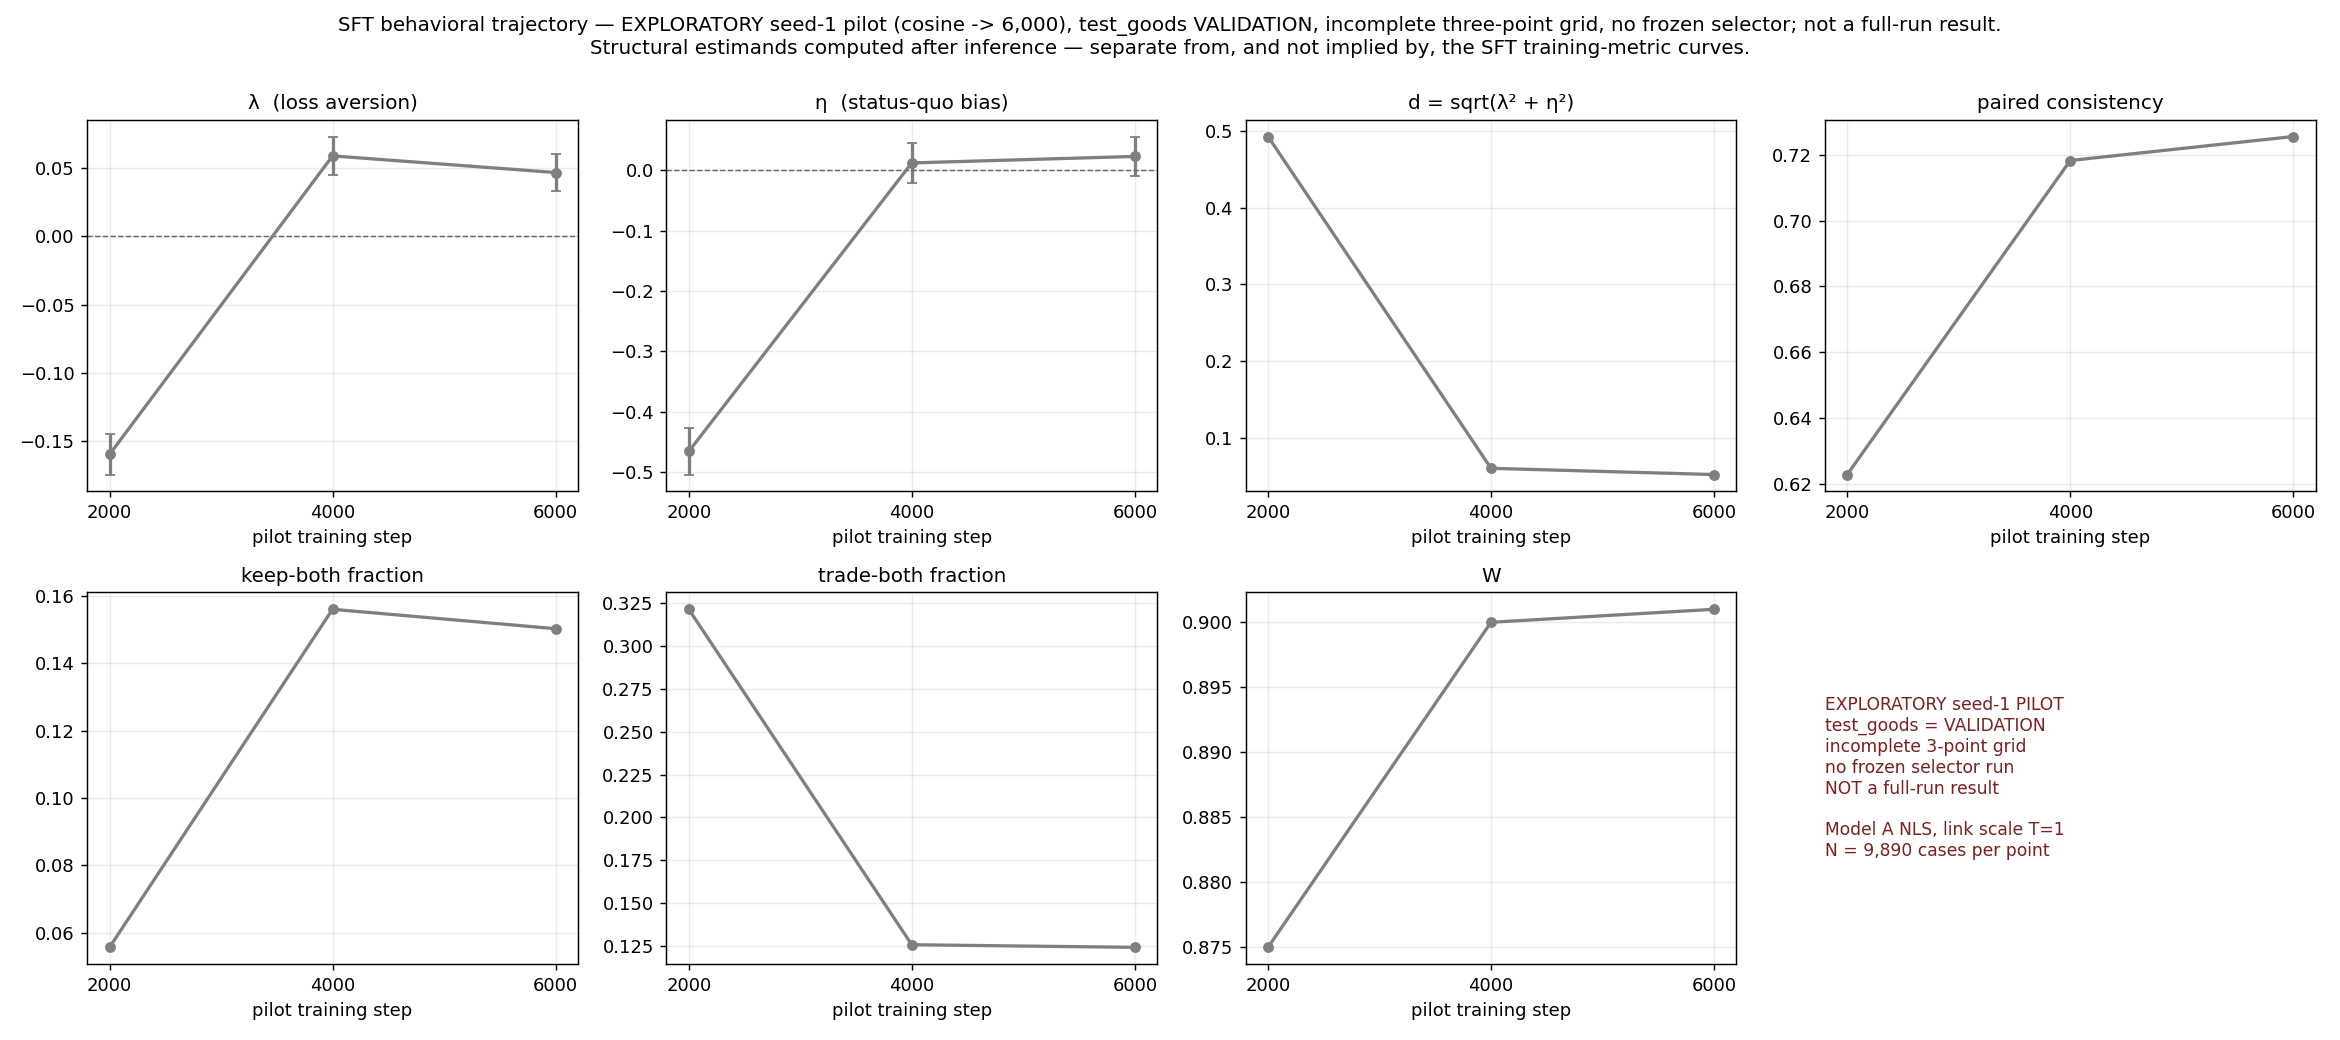
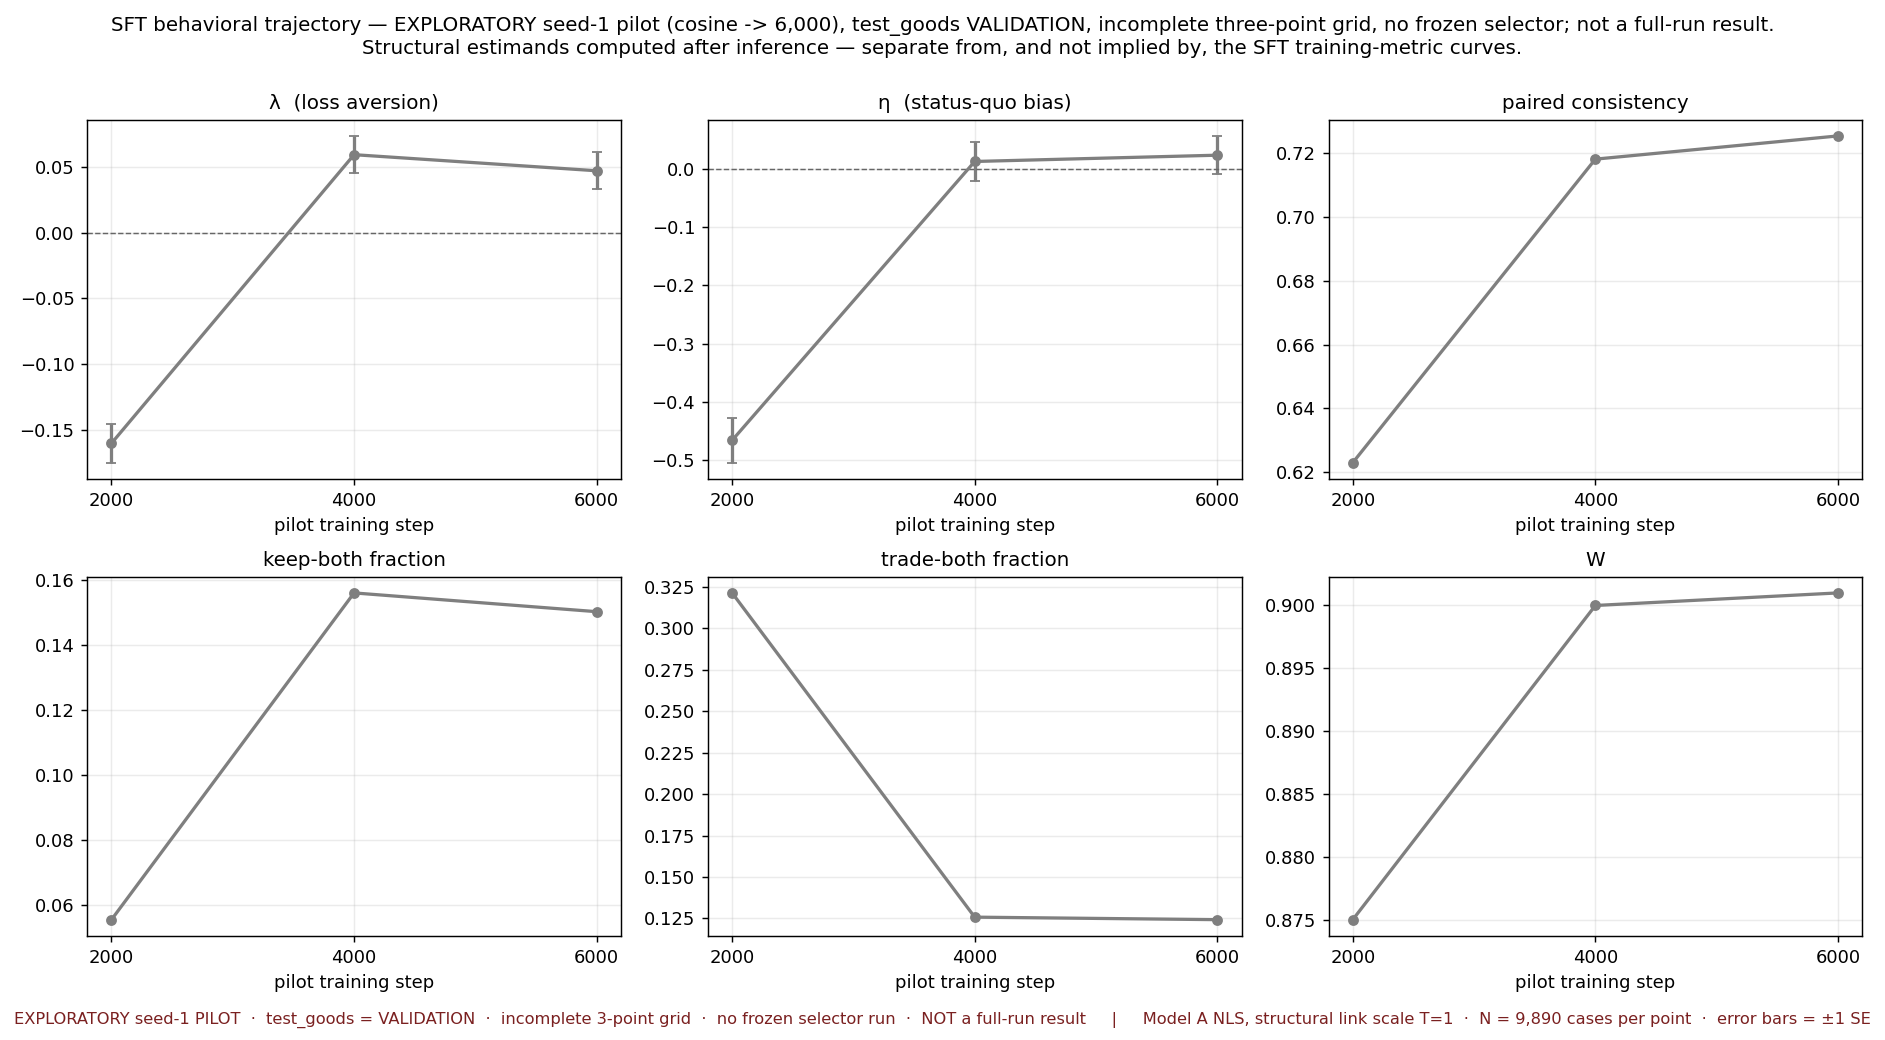
Quarantine pilot evals; 6-panel behavioral figure; full-grid run guide
Pilot-eval quarantine (prerequisite for the full grid)
------------------------------------------------------
The seed-1 pilot's evaluation outputs occupied exactly the flat directory names
a full 30k run produces:

  baselines/Qwen-7B-SFT-qd-seed1-ckpt{2000,4000,6000}
  baselines/Qwen-7B-GRPO-sign-seed1-ckpt{2000,4000,6000}

eval/run_qwen_local.py resumes by case_id from any existing loss_aversion_X/Y
.json in the output directory, so a full-run evaluation writing to those names
would have printed "Already complete: 9890 / Nothing to do" and returned the
PILOT's numbers under a full-run label — silently, with no error. The pilot also
trained into checkpoints/sft_qwen_delta_seed1 before that path was renamed and
reused by the full run, so the 07-27 eval logs already record an adapter path
that now points at different weights.

Moved all six into baselines/pilot6k/ with a PROVENANCE.md. Directory and file
names inside are unchanged — they record the --model_name used at evaluation
time. eval/select_checkpoint.py globs <feature>/<pattern> non-recursively, so
nothing there can be swept into a selection. The sign-only pilot was moved for
the same reason even though no full sign run exists yet: its training path
(checkpoints/grpo_qwen_delta_sign_seed1) would be reused identically.

scan_full_behavioural_grid() now excludes the pilot STRUCTURALLY (it cannot
reach a nested directory) instead of via a hardcoded step list, and records
where the quarantine lives.
[…]

diff --git a/eval/plot_sft_training_dynamics.py b/eval/plot_sft_training_dynamics.py
@@ -785,11 +785,10 @@ def scan_full_behavioural_grid() -> dict:
     look at the machine) and is recorded in the manifest; render and --check
     then consume the recorded scan, which keeps them snapshot-reproducible.
 
-    Directory NAMES are not identity. The seed-1 2k/4k/6k evaluation directories
-    were produced on 2026-07-27 from the PILOT adapters, back when the pilot
-    still occupied checkpoints/sft_qwen_delta_seed1 (renamed to *_pilot6k before
-    the full run reused that path on 2026-07-29). They are therefore listed but
-    excluded from the full-run grid count.
+    Only the FLAT `<root>/<prefix><step>/Model_1` layout counts. The seed-1
+    pilot's own 2k/4k/6k evaluations used exactly these names and now live one
+    level down in `baselines/pilot6k/` (see that directory's PROVENANCE.md), so
+    they are structurally excluded rather than excluded by a hardcoded step list.
     """
     grid_steps = list(range(SELECTION_GRID_STRIDE, 30001, SELECTION_GRID_STRIDE))
     found: dict[int, list[int]] = {}
@@ -803,21 +802,24 @@ def scan_full_behavioural_grid() -> dict:
                 if (base / f"{prefix}{step}" / "Model_1").is_dir():
                     hits.append(step)
         found[seed] = sorted(set(hits))
-    known_pilot = {1: [2000, 4000, 6000]}
-    attributable = {s: [k for k in v if k not in known_pilot.get(s, [])]
-                    for s, v in found.items()}
     n_needed = len(grid_steps) * len(FULL_GRID_PREFIX)
-    n_attr = sum(len(v) for v in attributable.values())
+    n_found = sum(len(v) for v in found.values())
+    pilot_dir = PROJECT_ROOT / "baselines" / "pilot6k"
     return {
         "scanned_roots": FULL_GRID_ROOTS,
+        "scan_is_recursive": False,
         "dir_prefixes": {str(k): v for k, v in FULL_GRID_PREFIX.items()},
         "required": {"seeds": list(FULL_GRID_PREFIX), "checkpoints": grid_steps,
                      "n_evaluations_required": n_needed},
         "directories_found": {str(k): v for k, v in found.items()},
-        "excluded_as_pilot_evaluations": {str(k): v for k, v in known_pilot.items()},
-        "attributable_to_full_runs": {str(k): v for k, v in attributable.items()},
-        "n_attributable_to_full_runs": n_attr,
-        "complete": n_attr == n_needed,
+        "n_attributable_to_full_runs": n_found,
+        "pilot_evaluations_quarantined_at": (
+            str(pilot_dir.relative_to(PROJECT_ROOT)) if pilot_dir.is_dir() else None),
+        "pilot_exclusion_mechanism": (
+            "structural: the seed-1 pilot evaluations were moved into "
+            "baselines/pilot6k/ on 2026-08-06 so they cannot occupy the flat "
+            "full-run names, and this non-recursive scan cannot reach them."),
+        "complete": n_found == n_needed,
         "identity_verified": False,
     }
 
@@ -896,13 +898,18 @@ def build_behavioural(grid_scan: dict | None) -> tuple[pd.DataFrame | None, dict
                                "sha256": sha256_of(PILOT_TABLE)},
         },
         "checkpoint_identity": "checkpoints/sft_qwen_delta_seed1_pilot6k/checkpoint-{2000,4000,6000}",
+        "evaluation_outputs": "baselines/pilot6k/Qwen-7B-SFT-qd-seed1-ckpt{2000,4000,6000}",
         "provenance_note": (
             "The July-27 evaluation logs record the adapter path as "
             "checkpoints/sft_qwen_delta_seed1/checkpoint-N. The pilot trained "
             "into that path on July 26 and was renamed to *_pilot6k before the "
             "full run reused the name on July 29, so those logs refer to the "
             "PILOT adapters. Directory mtimes and the pilot's own manifest "
-            "(max_steps=6000) confirm the identity."),
+            "(max_steps=6000) confirm the identity. On 2026-08-06 the pilot's "
+            "evaluation outputs were moved from the flat baselines/ names into "
+            "baselines/pilot6k/ so a full-run evaluation cannot resume from them "
+            "and silently return pilot numbers; see that directory's "
+            "PROVENANCE.md."),
         "adapter_hash_available": False,
         "seeds_covered": [1],
         "checkpoints_covered": sorted(int(x) for x in df["step"]),
@@ -917,14 +924,16 @@ def build_behavioural(grid_scan: dict | None) -> tuple[pd.DataFrame | None, dict
 
 
 def plot_behavioural(df: pd.DataFrame, path: Path) -> None:
+    # d = sqrt(lambda^2 + eta^2) is retained in the CSV but no longer plotted:
+    # it is a deterministic function of the first two panels, so the panel added
+    # no information the reader could not already see.
     panels = [("lambda", "λ  (loss aversion)", True),
               ("eta", "η  (status-quo bias)", True),
-              ("d", "d = sqrt(λ² + η²)", False),
               ("consistency", "paired consistency", False),
               ("keep_both", "keep-both fraction", False),
               ("trade_both", "trade-both fraction", False),
               ("W", "W", False)]
-    fig, axes = plt.subplots(2, 4, figsize=(18, 8))
+    fig, axes = plt.subplots(2, 3, figsize=(14.5, 8))
     c = RUNS["sft_pilot6k_seed1"]["color"]
     for ax, (col, title, zero) in zip(axes.ravel(), panels):
         if col in ("lambda", "eta"):
@@ -939,17 +948,12 @@ def plot_behavioural(df: pd.DataFrame, path: Path) -> None:
         ax.set_xlabel("pilot training step")
         ax.set_xticks(sorted(df["step"]))
         ax.grid(alpha=0.25)
-    axes.ravel()[-1].axis("off")
-    axes.ravel()[-1].text(
-        0.0, 0.5,
-        "EXPLORATORY seed-1 PILOT\n"
-        "test_goods = VALIDATION\n"
-        "incomplete 3-point grid\n"
-        "no frozen selector run\n"
-        "NOT a full-run result\n\n"
-        "Model A NLS, link scale T=1\n"
-        "N = 9,890 cases per point",
-        fontsize=9.5, va="center", ha="left", color="#7a2020")
+    fig.text(0.5, 0.012,
+             "EXPLORATORY seed-1 PILOT  ·  test_goods = VALIDATION  ·  incomplete "
+             "3-point grid  ·  no frozen selector run  ·  NOT a full-run result"
+             "     |     Model A NLS, structural link scale T=1  ·  N = 9,890 "
+             "cases per point  ·  error bars = ±1 SE",
+             fontsize=9, ha="center", va="bottom", color="#7a2020")
     fig.suptitle(
         "SFT behavioral trajectory — EXPLORATORY seed-1 pilot (cosine -> 6,000), "
         "test_goods VALIDATION, incomplete three-point grid, no frozen selector; "
@@ -958,7 +962,7 @@ def plot_behavioural(df: pd.DataFrame, path: Path) -> None:
         "implied by, the SFT training-metric curves.", fontsize=11, y=0.985,
         va="top")
     fig.tight_layout()
-    fig.subplots_adjust(top=0.885)
+    fig.subplots_adjust(top=0.885, bottom=0.10)
     fig.savefig(path, dpi=130)
     plt.close(fig)
 

diff --git a/train/SFT_FULL_GRID_EVAL.md b/train/SFT_FULL_GRID_EVAL.md
@@ -1,0 +1,110 @@
+# Evaluating the full SFT checkpoint grid (behavioral trajectory)
+
+How to produce the λ/η trajectory for the two **completed full matched-SFT runs**
+(seed 1 and seed 2, cosine → 30,000). Training is done; this is the behavioral
+measurement that training completion does *not* provide.
+
+Nothing here is submitted automatically. Copy the block you want and `qsub` it.
+
+## What each job does
+
+`train/submit_eval_baseline_ckpt.pbs` (unchanged, already frozen) loads one LoRA
+checkpoint, scores all 9,890 `test_goods` cases from both perspectives with
+deterministic greedy decoding, then fits Model A NLS at structural link scale
+T=1. Output lands in `baselines/Qwen-7B-SFT-qd-seed{N}-ckpt{S}/`.
+
+Measured cost per checkpoint, from the pilot logs: 1,237 batches at ~1.15 it/s
+≈ **18 min inference + a few minutes NLS ≈ 20–25 min**. Walltime is 2 h, so each
+job has ample headroom.
+
+## Full grid — 2,000 stride (the frozen grid; 30 jobs, ~11–13 GPU-hours)
+
+```bash
+cd $HOME/scratch/lambda-zero
+for SEED in 1 2; do
+  for CKPT in 2000 4000 6000 8000 10000 12000 14000 16000 18000 \
+              20000 22000 24000 26000 28000 30000; do
+    qsub -v METHOD=sft,SEED=$SEED,CKPT=$CKPT train/submit_eval_baseline_ckpt.pbs
+  done
+done
+```
+
+## Reduced grid — 4,000 stride (16 jobs, ~6 GPU-hours)
+
+Use this if the SU budget is tight; it gives the shape of the trajectory and can
+be infilled later with the remaining steps.
+
+```bash
+cd $HOME/scratch/lambda-zero
+for SEED in 1 2; do
+  for CKPT in 2000 6000 10000 14000 18000 22000 26000 30000; do
+    qsub -v METHOD=sft,SEED=$SEED,CKPT=$CKPT train/submit_eval_baseline_ckpt.pbs
+  done
+done
+```
+
+Note that a partial grid is **not** eligible for the frozen selector, which
+requires the complete 2k–30k @ 2k grid. It is fine for the trajectory plot.
+
+## Budget
+
+The two full SFT *training* runs consumed 2.8 GPU-hours and were charged ≈317 SU,
+which naively scales to roughly **1,000–1,400 SU for the 30-job grid** against a
+reported balance of ≈3,312 SU. Confirm the actual charging rate before committing
+to the full grid — this is a material fraction of the remaining allocation and
+the estimate is an extrapolation, not a measurement.
+
+## Monitoring
+
+```bash
+qstat -u jackeyc0
+ls -d baselines/Qwen-7B-SFT-qd-seed*-ckpt*/Model_1 | wc -l   # 30 when complete
+tail -f logs/eval_baseline_*.out
+```
+
+## After the jobs land
+
+```bash
+python eval/plot_sft_training_dynamics.py --refresh   # rescans the grid
+python eval/plot_sft_training_dynamics.py --check
+```
+
+`--refresh` rescans `baselines/` and records what it found in the manifest. The
+behavioral figure then gains the two full-run trajectories alongside the pilot.
+
+## Guard rails already in place
+
+- **`test_goods` is VALIDATION**, never a final test. The PBS script hard-refuses
+  OOD-50 and the frozen-unused suite, and the frozen method-comparison and
+  semantic suites are untouched.
+- **Output root is `baselines/`, not `baseline/`.** The confirmatory selector
+  globs `baseline/*`, so these evaluations cannot be swept into the frozen
+  seed1→2,000 / seed2→6,000 GRPO selection.
+- **The pilot's evaluations are quarantined** in `baselines/pilot6k/` (moved
+  2026-08-06; see its `PROVENANCE.md`). They previously occupied the exact flat
+  names these jobs write to, and `eval/run_qwen_local.py` resumes from any
+  existing `loss_aversion_X/Y.json` in the output directory — so three of the
+  thirty jobs would have printed `Already complete: 9890 / Nothing to do` and
+  returned **pilot** numbers under a full-run label. Verify the quarantine held
+  before submitting:
+
+  ```bash
+  ls -d baselines/Qwen-7B-SFT-qd-seed*-ckpt* 2>/dev/null   # must be empty
+  ```
+
+- **No selector run.** Producing the trajectory does not select a checkpoint.
+  Running `eval/select_checkpoint.py` on this grid is a separate, deliberate act
+  governed by `CAUSAL_BASELINE_PROTOCOL.md`, and it requires the
+  `--provenance_note` recording that OOD-50 and the frozen-unused suite are
+  already opened, so any SFT-vs-GRPO comparison is post-hoc unless a new
+  untouched suite is frozen first.
+
+## What the resulting curve will and will not show
+
+It will show how λ, η, consistency, keep-both, trade-both and W evolve across
+training for both full seeds, on validation data.
+
+It will **not** establish that SFT beats GRPO, that any particular checkpoint is
+the right one, or that the behavior generalizes — those need the frozen untouched
+method-comparison suite. And the pilot's step-6,000 point is still not comparable
+to the full runs' step-6,000 point: different cosine endpoints, different weights.

diff --git a/results/training_dynamics/sft/sft_training_summary.md b/results/training_dynamics/sft/sft_training_summary.md
@@ -78,7 +78,7 @@ The two full SFT runs have completed training, but their behavioral checkpoint g
 | 4,000 | +0.059 (0.014) | +0.012 (0.033) | 0.060 | 0.718 | 0.156 | 0.126 | 0.900 |
 | 6,000 | +0.047 (0.014) | +0.023 (0.033) | 0.052 | 0.725 | 0.150 | 0.124 | 0.901 |
 
-The July-27 evaluation logs record the adapter path as checkpoints/sft_qwen_delta_seed1/checkpoint-N. The pilot trained into that path on July 26 and was renamed to *_pilot6k before the full run reused the name on July 29, so those logs refer to the PILOT adapters. Directory mtimes and the pilot's own manifest (max_steps=6000) confirm the identity.
+The July-27 evaluation logs record the adapter path as checkpoints/sft_qwen_delta_seed1/checkpoint-N. The pilot trained into that path on July 26 and was renamed to *_pilot6k before the full run reused the name on July 29, so those logs refer to the PILOT adapters. Directory mtimes and the pilot's own manifest (max_steps=6000) confirm the identity. On 2026-08-06 the pilot's evaluation outputs were moved from the flat baselines/ names into baselines/pilot6k/ so a full-run evaluation cannot resume from them and silently return pilot numbers; see that directory's PROVENANCE.md.
 
 The pilot used a cosine schedule ending at 6,000. The full run used a cosine schedule ending at 30,000. Their step-6,000 weights are not interchangeable.
 
